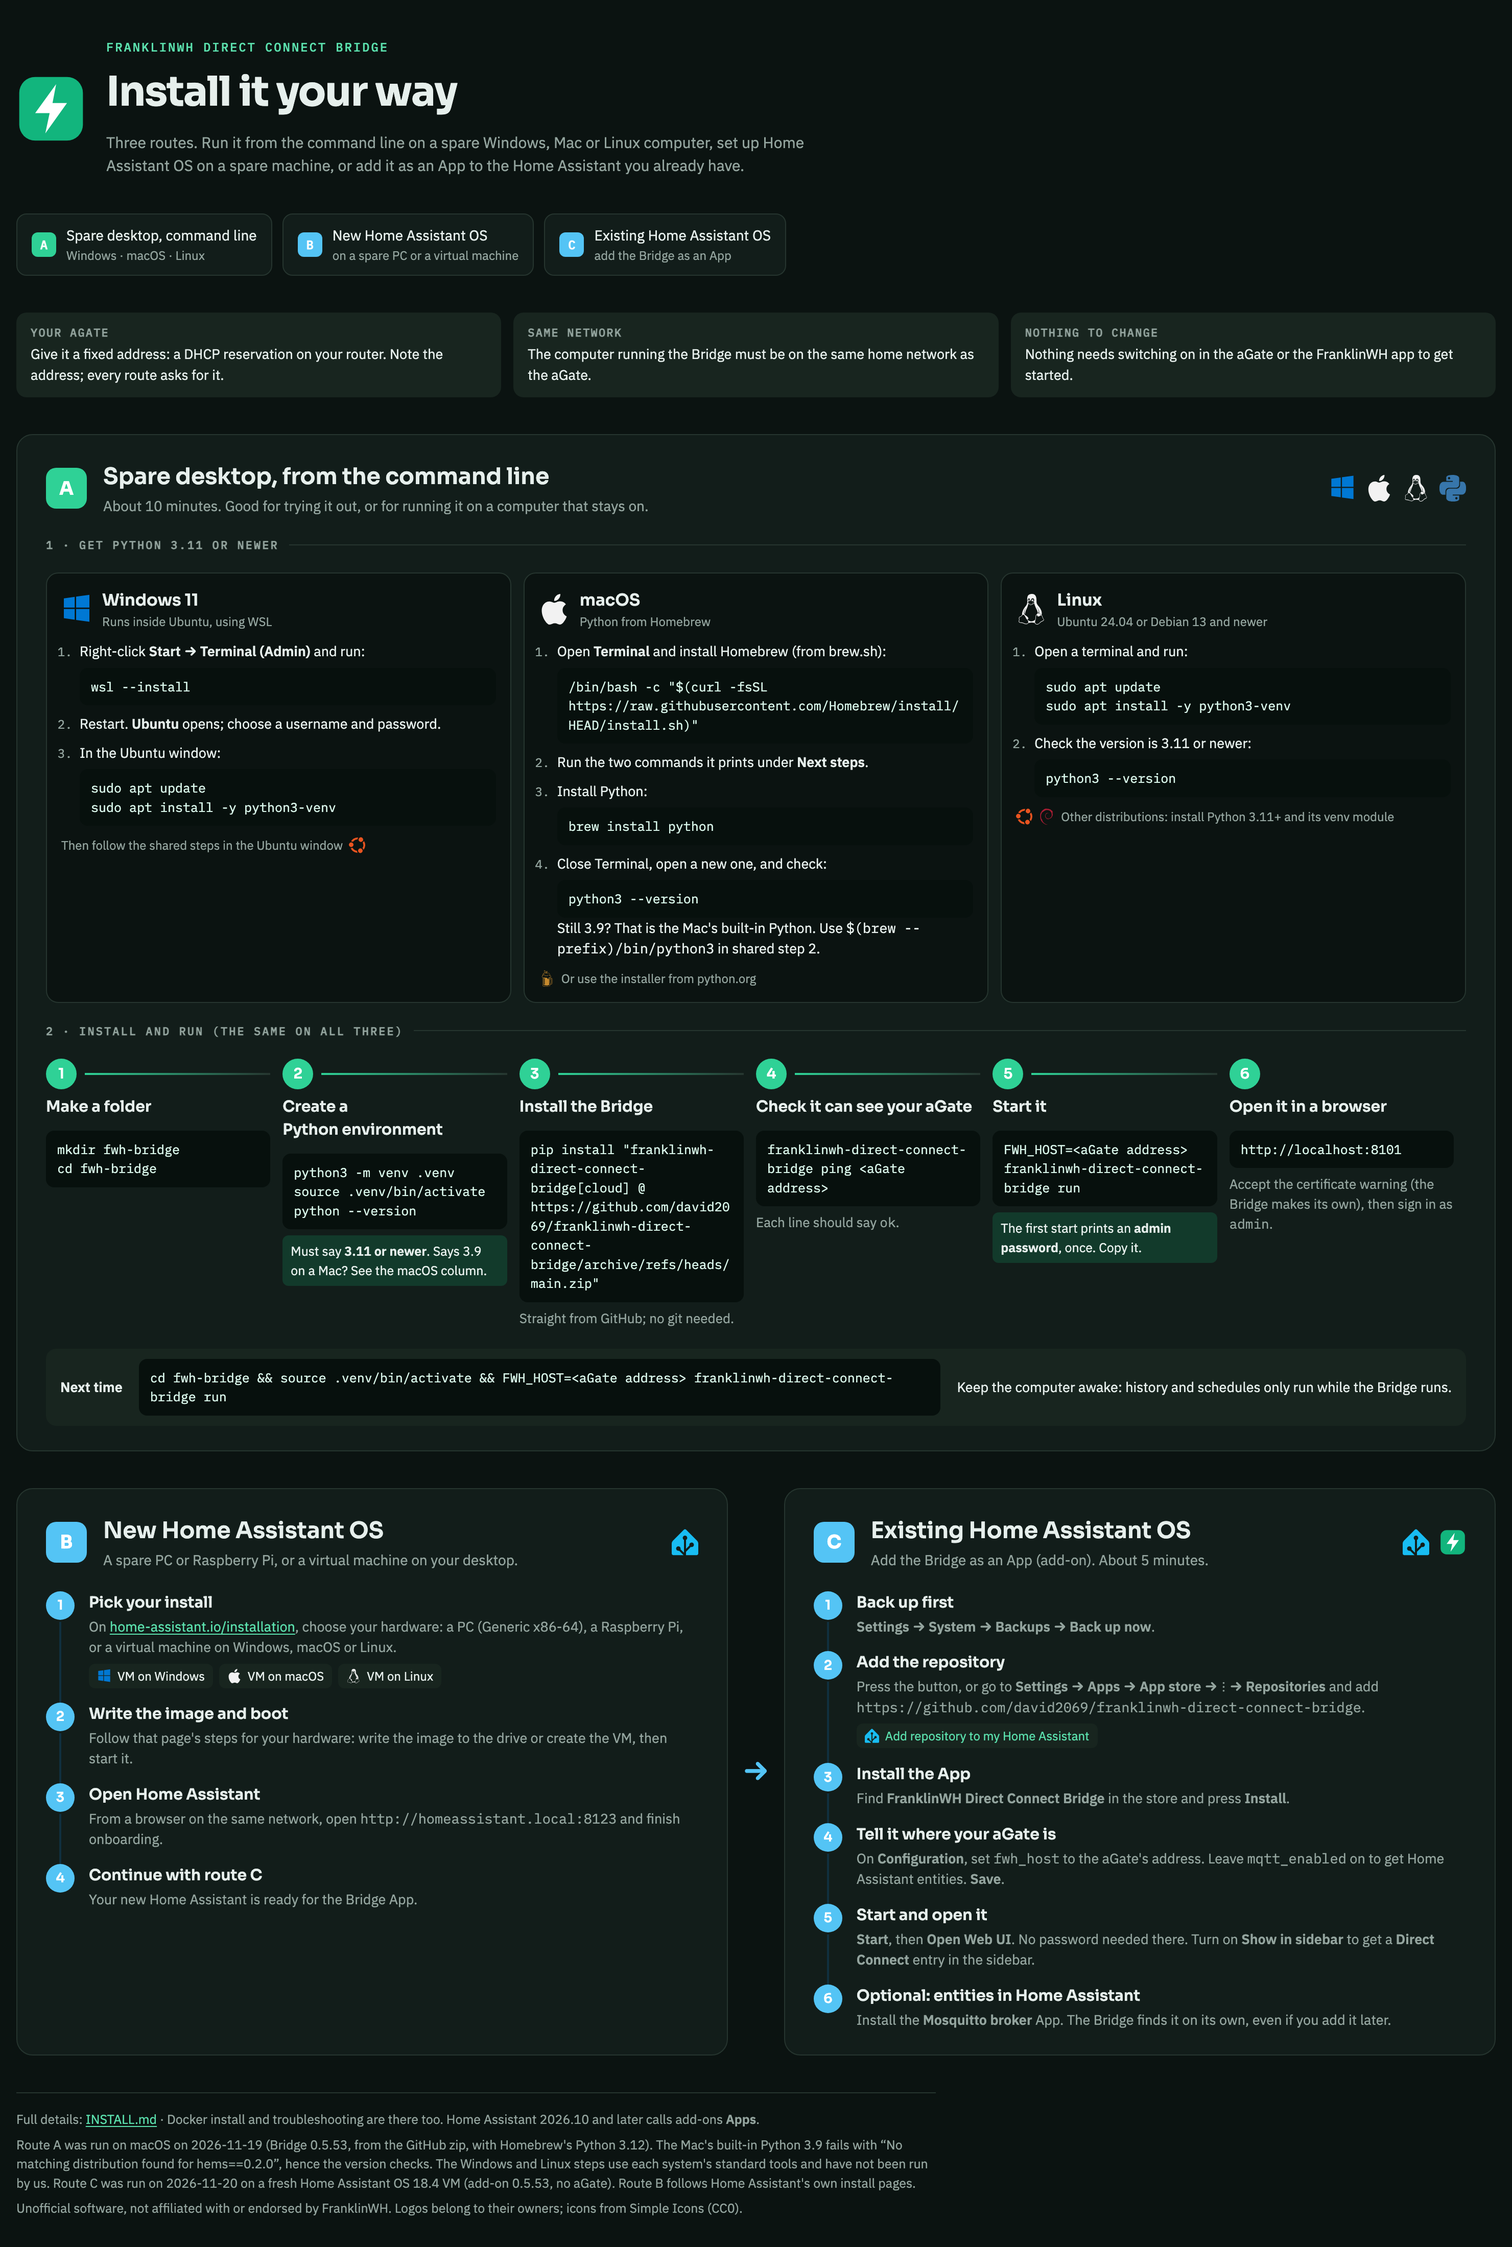
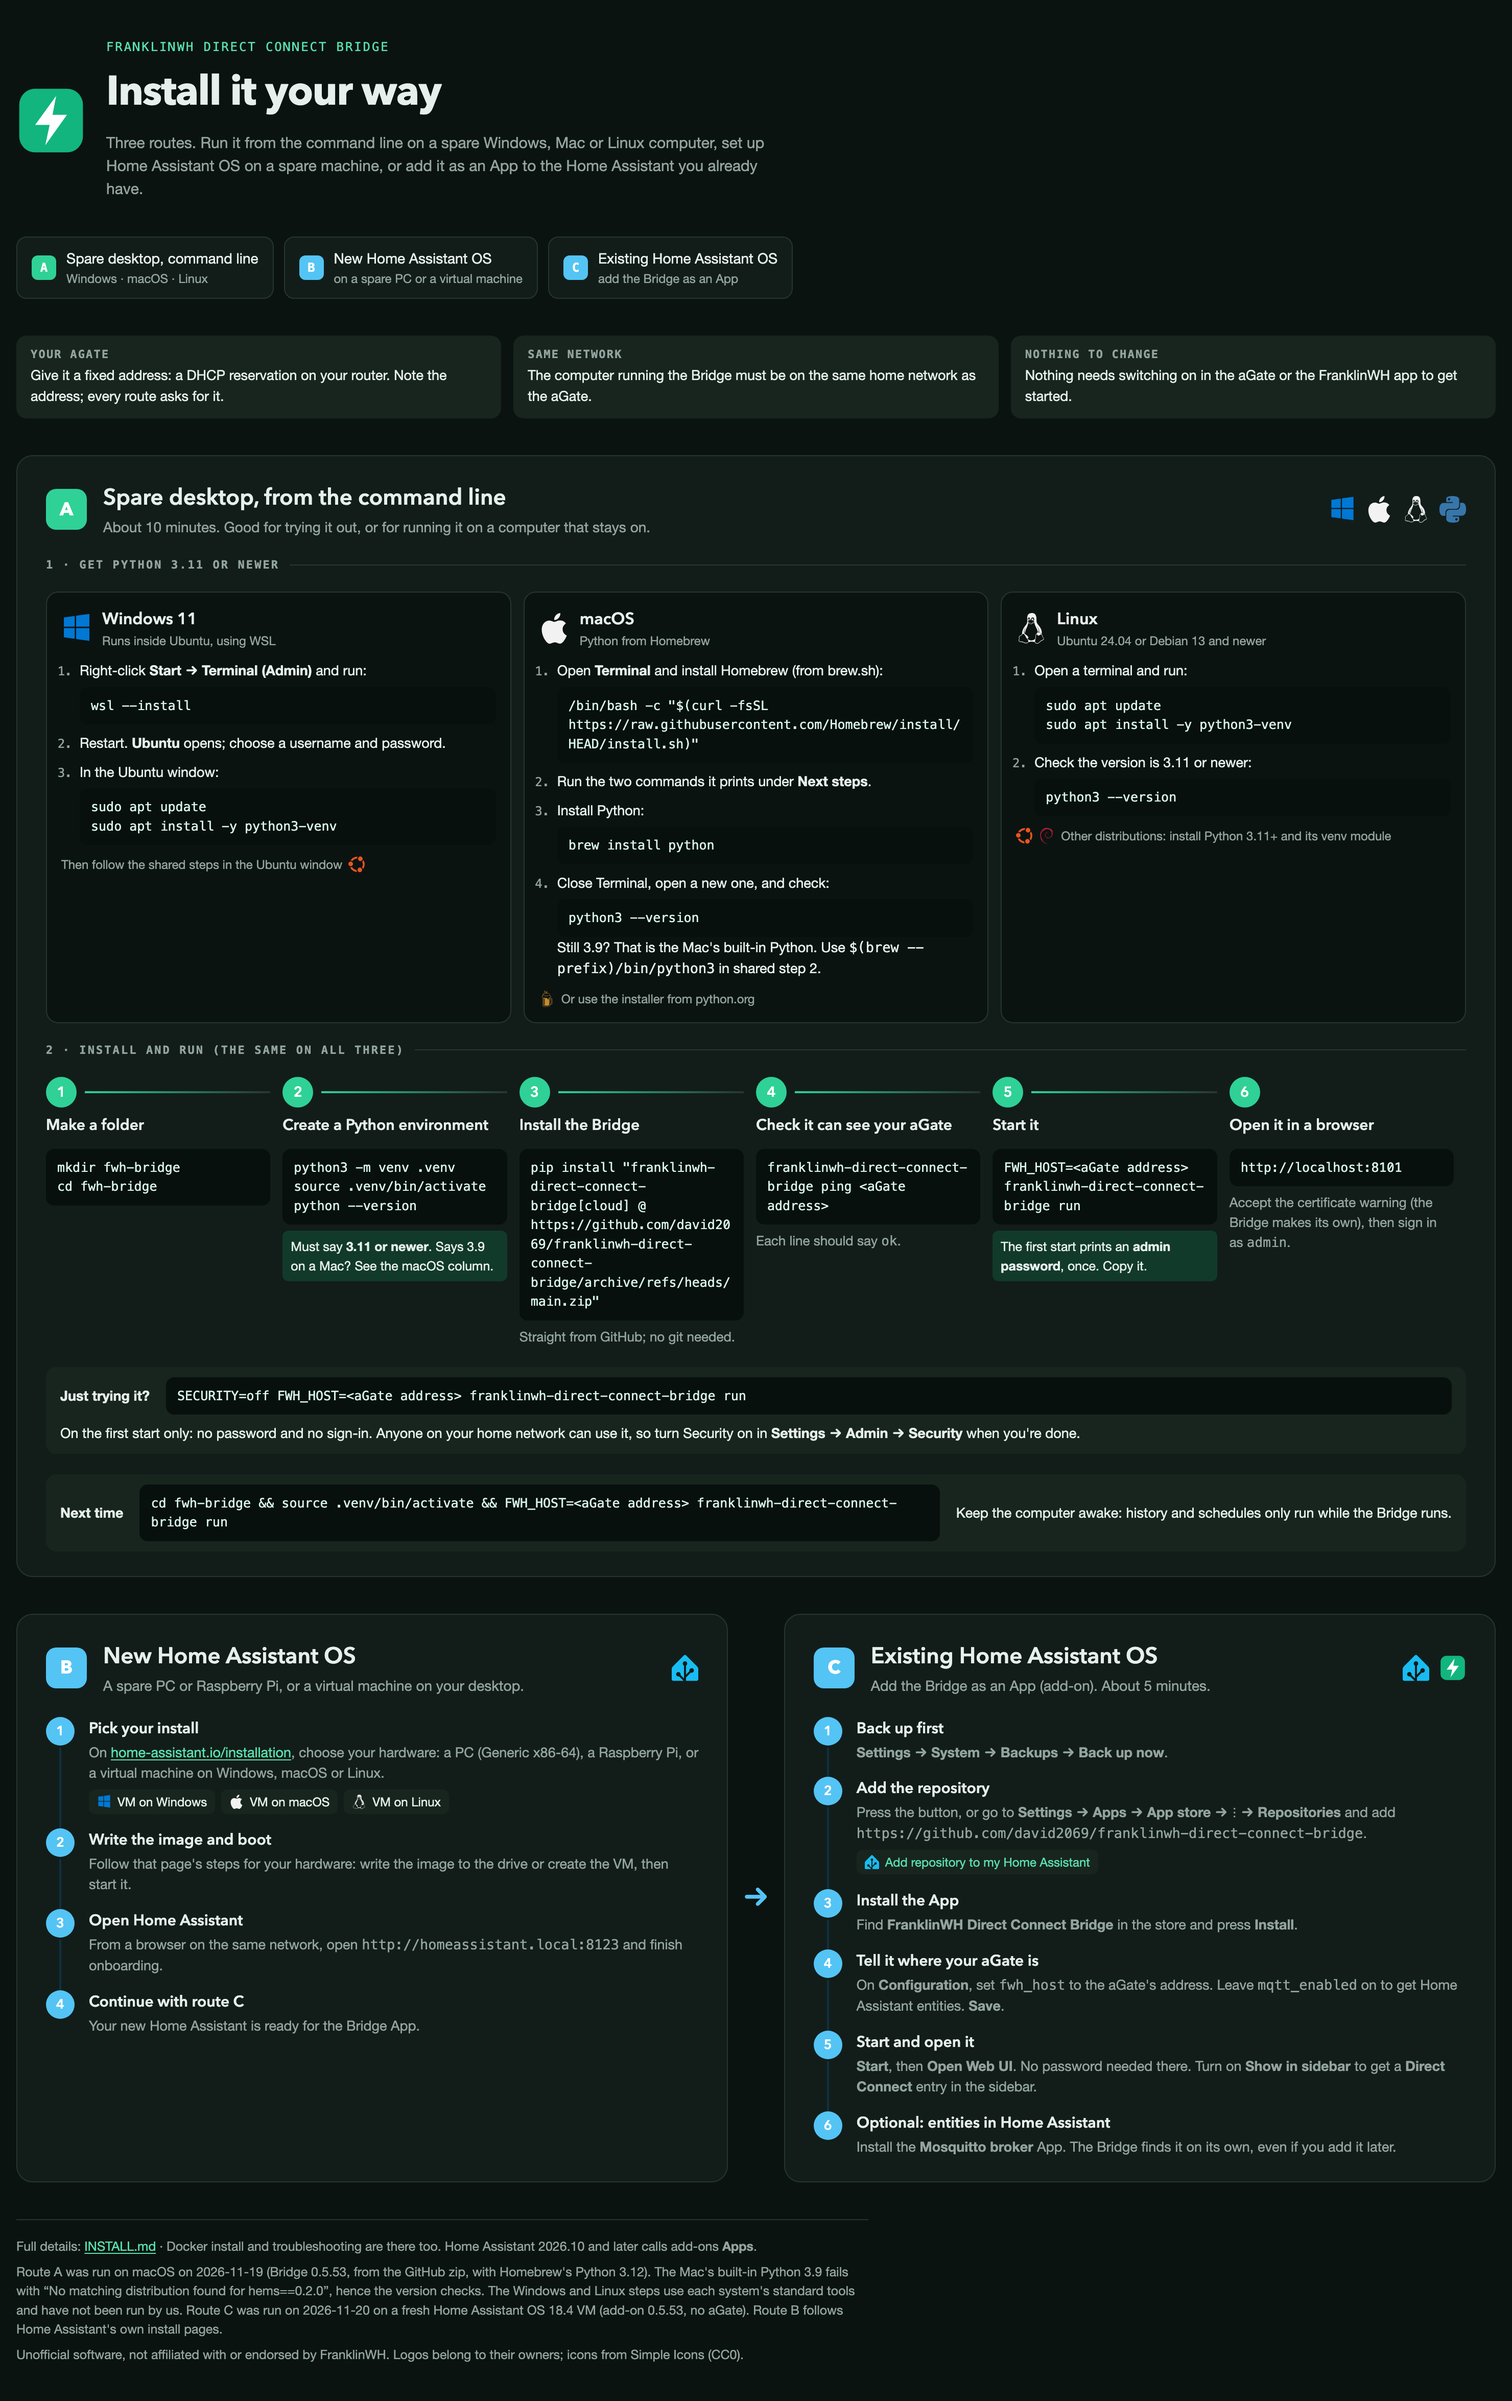
docs(quick-install): add the SECURITY=off quick start and first sign-in options
Route A now says how to choose your own first login (ADMIN_USERNAME /
ADMIN_PASSWORD), how to reset a lost password, and how to try the Bridge
with no sign-in: SECURITY=off on the first start (#786). The visual page
gains a "Just trying it?" line; both PNGs are re-rendered.

Checked on 2026-11-20 on macOS, Bridge 0.5.54 from this branch, empty
data folder, no aGate: port 8101 answered 200 with no redirect, no
password was printed, and the log warned that Security is off.

Also merges main into this branch, to pick up #786.

Refs #457

diff --git a/docs/overview/quick-install.html b/docs/overview/quick-install.html
@@ -220,6 +220,10 @@ python --version</pre>
       <p>Accept the certificate warning (the Bridge makes its own), then sign in as <code>admin</code>.</p></div>
   </div>
 
+  <div class="again"><b>Just trying it?</b>
+    <pre class="cmd">SECURITY=off FWH_HOST=&lt;aGate address&gt; franklinwh-direct-connect-bridge run</pre>
+    <span>On the first start only: no password and no sign-in. Anyone on your home network can use it, so turn Security on in <b>Settings → Admin → Security</b> when you're done.</span></div>
+
   <div class="again"><b>Next time</b>
     <pre class="cmd">cd fwh-bridge &amp;&amp; source .venv/bin/activate &amp;&amp; FWH_HOST=&lt;aGate address&gt; franklinwh-direct-connect-bridge run</pre>
     <span>Keep the computer awake: history and schedules only run while the Bridge runs.</span></div>

diff --git a/docs/guide/quick-install.md b/docs/guide/quick-install.md
@@ -126,7 +126,25 @@ FWH_HOST=<aGate address> franklinwh-direct-connect-bridge run
 
 Open `http://localhost:8101` in a browser. Accept the certificate warning (the Bridge makes
 its own certificate), then sign in as `admin`. See
-[Security](security.md) for what the first admin is and how to add other users.
+[Security](security.md#the-first-admin) for what the first admin is and how to add other users.
+
+- **Choose your own login instead:** set `ADMIN_USERNAME` and `ADMIN_PASSWORD` before the
+  first start.
+- **Lost the password:** run `franklinwh-direct-connect-bridge reset-password admin` in the
+  same folder.
+
+!!! tip "Just trying it? Start without a sign-in"
+    On the **first** start, add `SECURITY=off`:
+
+    ```bash
+    SECURITY=off FWH_HOST=<aGate address> franklinwh-direct-connect-bridge run
+    ```
+
+    `http://localhost:8101` then opens straight away: no password, no certificate warning,
+    and no admin is created. Anyone on your home network can use it, battery control
+    included, so turn Security on under **Settings → Admin → Security** when you're done
+    trying it. `SECURITY` is read only on the first start: it never turns Security off on
+    an install that already has it on.
 
 **Next time**, from the same folder:
 
@@ -176,6 +194,10 @@ Home Assistant 2026.10 and later calls add-ons **Apps**; INSTALL.md still says *
   Python 3.9.6 (from Xcode), and the install failed with *No matching distribution found
   for hems==0.2.0* (PyPI lists `hems` 0.2.0 as `requires_python >=3.11`). That is why the
   version checks are there.
+- **The `SECURITY=off` quick start** (added in [#786](https://github.com/david2069/franklinwh-direct-connect-bridge/pull/786))
+  was run on 2026-11-20 on macOS with Bridge 0.5.54, installed from this branch, on an empty
+  data folder and with no aGate. Port 8101 answered `200` with no redirect to the sign-in
+  page, no password was printed, and the log warned that Security is off.
 - **Route A on Windows and Linux** uses each system's standard tools and has **not been run**
   for this page.
 - **Routes B and C** follow Home Assistant's own installation pages and this project's
